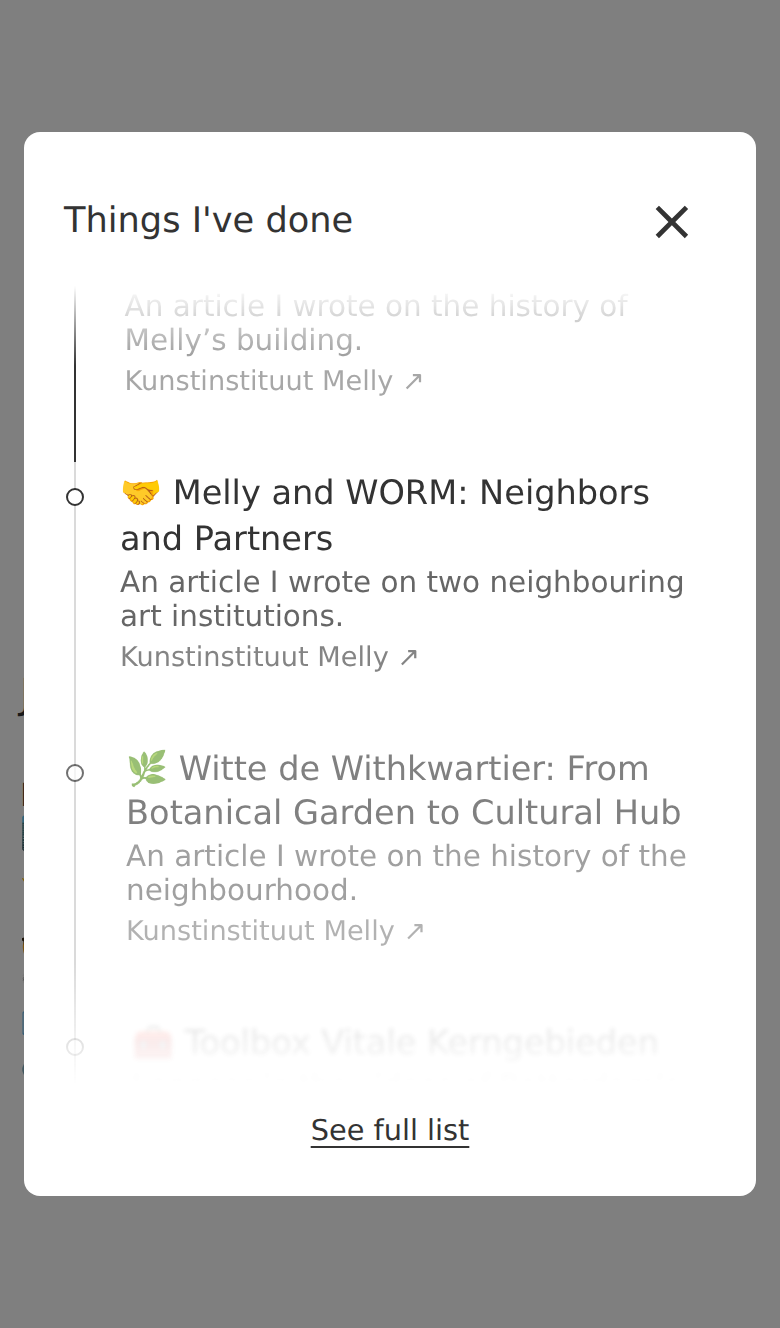
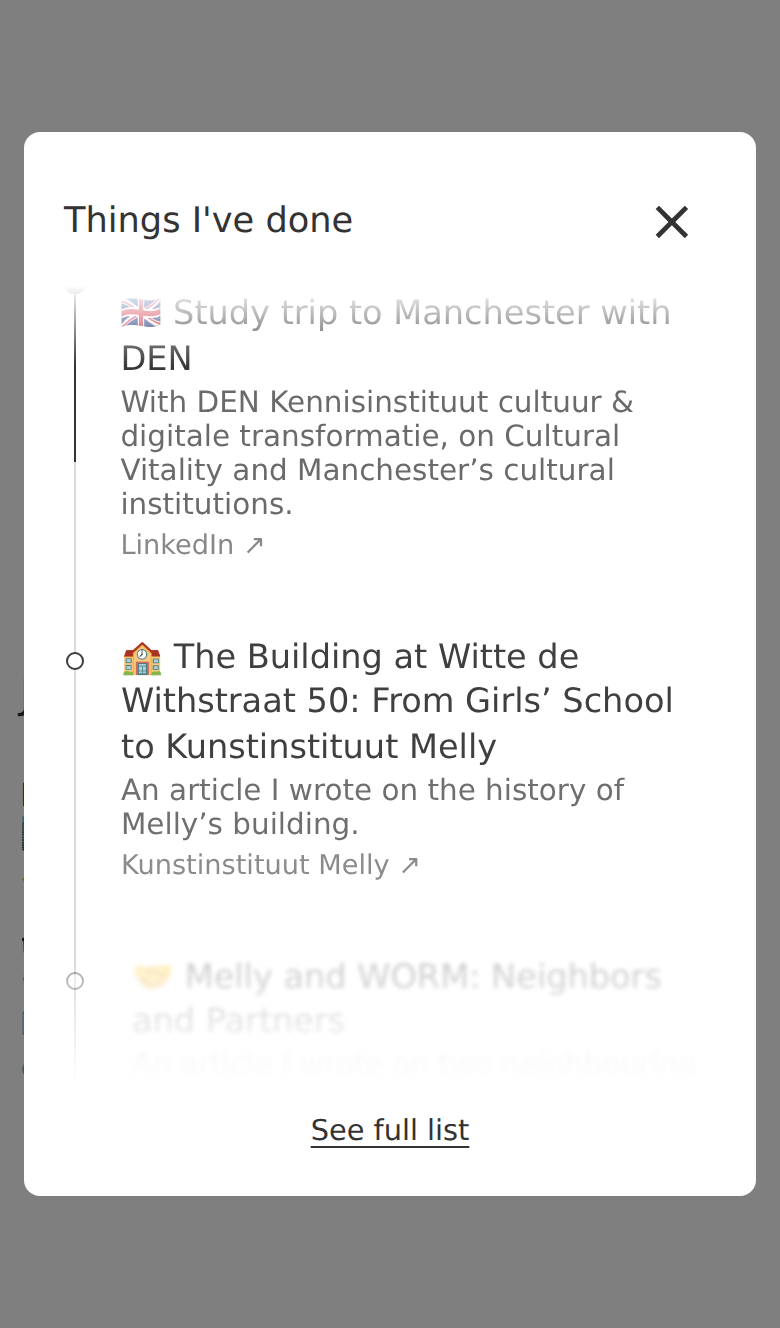
Update timeline entries with confirmed details
- Add the Art Radio - Rotterdam Art Week podcast episode (2026)
- DEN entry is now the study trip to Manchester
- Mentoring entry links to the Cultuur+Ondernemen duo interview
- Collective learning entry is now the visual identity project (2021),
  linking to the documentary on YouTube

Claude-Session: https://claude.ai/code/session_01HC42MtestLoGtewPBuYLHH

Changed region(s): [[0.1538, 0.2161, 0.8923, 0.741], [0.7692, 0.2161, 0.8615, 0.247], [0.5231, 0.7101, 0.5846, 0.741]]

diff --git a/index.html b/index.html
@@ -107,16 +107,16 @@
         // without a source, the website's name is shown (e.g. "nrc.nl").
         // ---------------------------------------------------------------
         var projects = [
-            { year: 2025, emoji: '💡', title: 'Joined DEN Kennisinstituut cultuur & digitale transformatie', url: 'https://www.linkedin.com/posts/visuology_last-week-i-joined-den-kennisinstituut-cultuur-activity-7403128219387838465-Icnb', source: 'LinkedIn' },
+            { year: 2026, emoji: '🎙', title: 'Afl 8: Hoe weerspiegelt kunst de diversiteit van de stad?', description: 'Art Radio \u2013 Rotterdam Art Week. A conversation with Maaike Muis and Houcem Bellakoud (Unity in Diversity).', url: 'https://open.spotify.com/episode/7euxMl5ZzgxJdmK8EMg1tA', source: 'Spotify' },
+            { year: 2025, emoji: '🇬🇧', title: 'Study trip to Manchester with DEN', description: 'With DEN Kennisinstituut cultuur & digitale transformatie, on Cultural Vitality and Manchester\u2019s cultural institutions.', url: 'https://www.linkedin.com/posts/visuology_last-week-i-joined-den-kennisinstituut-cultuur-activity-7403128219387838465-Icnb', source: 'LinkedIn' },
             { year: 2025, emoji: '🏫', title: 'The Building at Witte de Withstraat 50: From Girls\u2019 School to Kunstinstituut Melly', description: 'An article I wrote on the history of Melly\u2019s building.', url: 'https://www.kunstinstituutmelly.nl/en/connect/8665-the-building-at-witte-de-withstraat-50-from-girls-school', source: 'Kunstinstituut Melly' },
             { year: 2025, emoji: '🤝', title: 'Melly and WORM: Neighbors and Partners', description: 'An article I wrote on two neighbouring art institutions.', url: 'https://www.kunstinstituutmelly.nl/en/connect/8652-melly-and-worm-neighbors-and-partners', source: 'Kunstinstituut Melly' },
             { year: 2025, emoji: '🌿', title: 'Witte de Withkwartier: From Botanical Garden to Cultural Hub', description: 'An article I wrote on the history of the neighbourhood.', url: 'https://www.kunstinstituutmelly.nl/en/connect/8592-witte-de-withkwartier-from-botanical-garden-to-cultural-hub', source: 'Kunstinstituut Melly' },
-            { year: 2025, emoji: '🧰', title: 'Toolbox Vitale Kerngebieden', description: 'I appear in the videos of Rotterdam\u2019s toolbox for entrepreneurs\u2019 associations and BIZs.', url: 'https://www.ondernemen010.nl/actueel/toolbox-vitale-kerngebieden/', source: 'Ondernemen010' },
-            { year: 2025, emoji: '🧭', title: 'Stevig in je schoenen als zakelijk leider door mentoring', description: 'About the mentoring programme I followed.', url: 'https://www.cultuur-ondernemen.nl/artikel/stevig-in-je-schoenen-als-zakelijk-leider-door-mentoring', source: 'Cultuur+Ondernemen' },
+            { year: 2025, emoji: '🧰', title: 'Toolbox Vitale Kerngebieden', description: 'I appear in the videos of this toolbox for Rotterdam\u2019s entrepreneurs\u2019 associations and BIZs.', url: 'https://www.ondernemen010.nl/actueel/toolbox-vitale-kerngebieden/', source: 'Ondernemen010' },
+            { year: 2025, emoji: '🧭', title: '\u2018Feedback krijg je niet uit een boek, wel van een mentor\u2019', description: 'Duo interview about the mentoring programme I followed.', url: 'https://www.cultuur-ondernemen.nl/artikel/duo-interview-mentoring-kunstpodia-jeroen-valentijn', source: 'Cultuur+Ondernemen' },
             { year: 2024, emoji: '📻', title: 'De audiotour: Jeroen Lavèn over de tentoonstelling My Oma in Kunstinstituut Melly', description: 'Radio interview on Opium about the exhibition My Oma.', url: 'https://www.npoklassiek.nl/fragmenten/opium/5fefa7d0-8d20-4431-92d9-374c08ae7c76/2024-01-08-de-audiotour-jeroen-laven-over-de-tentoonstelling-my-oma-in-kunstinstituut-melly', source: 'NPO Klassiek' },
-            { year: 2023, emoji: '🎬', title: 'Led a collective learning project', description: 'Commissioning videographers since 2018.', url: 'https://www.linkedin.com/posts/visuology_since-2018-we-commission-videographers-to-activity-7016026525355397120-_pHs', source: 'LinkedIn' },
-            { emoji: '🏙', title: 'Witte de With: een combinatie van horeca, kunst en retail', description: 'Interview about the Witte de Withkwartier.', url: 'https://www.ondernemen010.nl/actueel/wittedewith/', source: 'Ondernemen010' },
-            { emoji: '🎙', title: 'Guest on a podcast', url: 'https://open.spotify.com/episode/7euxMl5ZzgxJdmK8EMg1tA', source: 'Spotify' }
+            { year: 2021, emoji: '🎬', title: 'A new visual identity for Kunstinstituut Melly', description: 'I led the project for the institute\u2019s new identity in 2020\u20132021. A short documentary with all the designers.', url: 'https://www.youtube.com/watch?v=LUtSD5RvjFM', source: 'YouTube' },
+            { emoji: '🏙', title: 'Witte de With: een combinatie van horeca, kunst en retail', description: 'Interview about the Witte de Withkwartier.', url: 'https://www.ondernemen010.nl/actueel/wittedewith/', source: 'Ondernemen010' }
         ];
 
         var reduceMotion = window.matchMedia('(prefers-reduced-motion: reduce)');
